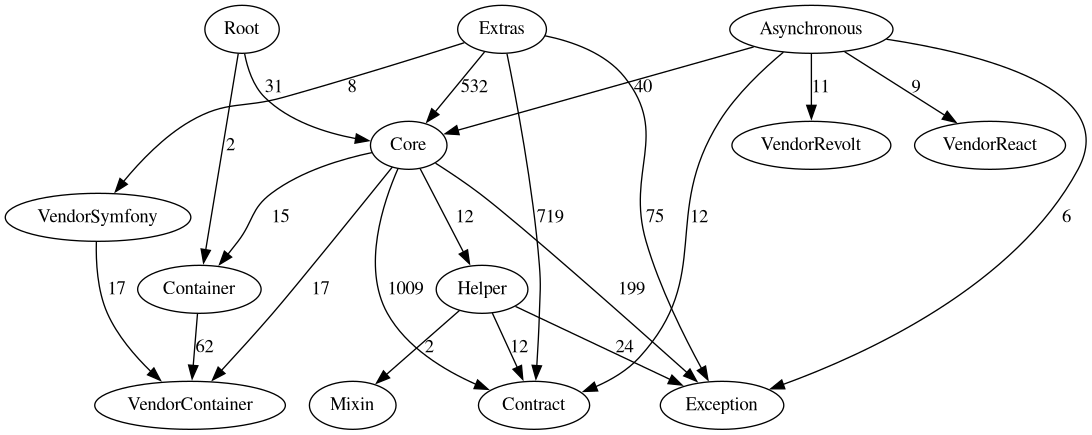
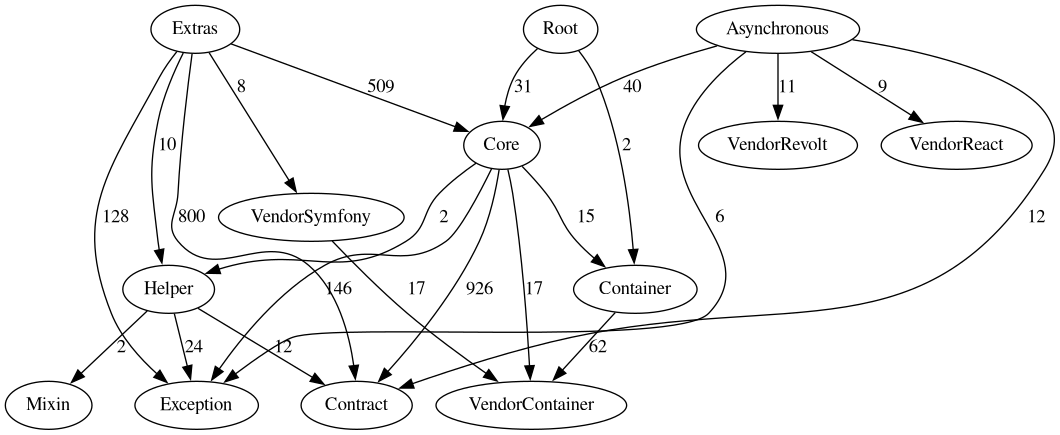
~

diff --git a/src/Spinner/Core/Factory/ContainerSingletonFactory.php b/src/Spinner/Core/Factory/ContainerSingletonFactory.php
@@ -9,7 +9,6 @@ use AlecRabbit\Spinner\Container\Container;
 use AlecRabbit\Spinner\Container\Contract\IContainer;
 use AlecRabbit\Spinner\Container\Contract\IServiceSpawner;
 use AlecRabbit\Spinner\Container\ServiceSpawner;
-use AlecRabbit\Spinner\Contract\Color\Style\IStyleOptionsParser;
 use AlecRabbit\Spinner\Contract\Option\OptionCursor;
 use AlecRabbit\Spinner\Contract\Option\OptionNormalizerMode;
 use AlecRabbit\Spinner\Contract\Option\OptionStyleMode;
@@ -48,7 +47,6 @@ use AlecRabbit\Spinner\Core\Contract\IWidthMeasurer;
 use AlecRabbit\Spinner\Core\Contract\Loop\Contract\ILoop;
 use AlecRabbit\Spinner\Core\Contract\Loop\Contract\ILoopProbe;
 use AlecRabbit\Spinner\Core\DriverSetup;
-use AlecRabbit\Spinner\Core\Factory\Contract\IAnsiColorParserFactory;
 use AlecRabbit\Spinner\Core\Factory\Contract\IBufferedOutputSingletonFactory;
 use AlecRabbit\Spinner\Core\Factory\Contract\ICharFrameFactory;
 use AlecRabbit\Spinner\Core\Factory\Contract\ICharFrameRevolverFactory;
@@ -58,7 +56,6 @@ use AlecRabbit\Spinner\Core\Factory\Contract\IDriverLinkerSingletonFactory;
 use AlecRabbit\Spinner\Core\Factory\Contract\IDriverOutputFactory;
 use AlecRabbit\Spinner\Core\Factory\Contract\IDriverSingletonFactory;
 use AlecRabbit\Spinner\Core\Factory\Contract\IFrameCollectionFactory;
-use AlecRabbit\Spinner\Core\Factory\Contract\IHexColorToAnsiCodeConverterFactory;
 use AlecRabbit\Spinner\Core\Factory\Contract\IIntervalFactory;
 use AlecRabbit\Spinner\Core\Factory\Contract\IIntervalNormalizerFactory;
 use AlecRabbit\Spinner\Core\Factory\Contract\ILoopProbeFactory;
@@ -67,7 +64,6 @@ use AlecRabbit\Spinner\Core\Factory\Contract\ILoopSetupFactory;
 use AlecRabbit\Spinner\Core\Factory\Contract\ILoopSingletonFactory;
 use AlecRabbit\Spinner\Core\Factory\Contract\ISignalProcessingProbeFactory;
 use AlecRabbit\Spinner\Core\Factory\Contract\ISpinnerFactory;
-use AlecRabbit\Spinner\Core\Factory\Contract\IStyleFactory;
 use AlecRabbit\Spinner\Core\Factory\Contract\IStyleFrameFactory;
 use AlecRabbit\Spinner\Core\Factory\Contract\IStyleFrameRendererFactory;
 use AlecRabbit\Spinner\Core\Factory\Contract\IStyleFrameRevolverFactory;
@@ -98,10 +94,6 @@ use AlecRabbit\Spinner\Core\Widget\Factory\WidgetRevolverFactory;
 use AlecRabbit\Spinner\Core\Widget\WidgetBuilder;
 use AlecRabbit\Spinner\Core\Widget\WidgetRevolverBuilder;
 use AlecRabbit\Spinner\Exception\DomainException;
-//use AlecRabbit\Spinner\Extras\Color\Style\StyleOptionsParser;
-//use AlecRabbit\Spinner\Extras\Factory\AnsiColorParserFactory;
-//use AlecRabbit\Spinner\Extras\Factory\SimpleHexColorToAnsiCodeConverterFactory;
-//use AlecRabbit\Spinner\Extras\Factory\StyleFactory;
 use ArrayObject;
 use Psr\Container\ContainerInterface;
 use Traversable;
@@ -140,7 +132,6 @@ final class ContainerSingletonFactory implements IContainerSingletonFactory
     {
         // TODO (2023-04-10 20:21) [Alec Rabbit]: consider extracting definitions?
         yield from [
-//            IAnsiColorParserFactory::class => AnsiColorParserFactory::class,
             IAuxSettingsBuilder::class => AuxSettingsBuilder::class,
             IBufferedOutputBuilder::class => BufferedOutputBuilder::class,
             IBufferedOutputSingletonFactory::class => BufferedOutputSingletonFactory::class,
@@ -160,7 +151,6 @@ final class ContainerSingletonFactory implements IContainerSingletonFactory
             IDriverSingletonFactory::class => DriverSingletonFactory::class,
             IFrameCollectionFactory::class => FrameCollectionFactory::class,
             IFrameRevolverBuilder::class => FrameRevolverBuilder::class,
-//            IHexColorToAnsiCodeConverterFactory::class => SimpleHexColorToAnsiCodeConverterFactory::class,
             IIntegerNormalizerBuilder::class => IntegerNormalizerBuilder::class,
             IIntervalFactory::class => IntervalFactory::class,
             IIntervalNormalizerFactory::class => IntervalNormalizerFactory::class,
@@ -169,11 +159,9 @@ final class ContainerSingletonFactory implements IContainerSingletonFactory
             ILoopSetupFactory::class => LoopSetupFactory::class,
             ILoopSingletonFactory::class => LoopSingletonFactory::class,
             ISpinnerFactory::class => SpinnerFactory::class,
-//            IStyleFactory::class => StyleFactory::class,
             IStyleFrameFactory::class => StyleFrameFactory::class,
             IStyleFrameCollectionRenderer::class => StyleFrameCollectionRenderer::class,
             IStyleFrameRendererFactory::class => StyleFrameRendererFactory::class,
-//            IStyleOptionsParser::class => StyleOptionsParser::class,
             IStyleRendererFactory::class => StyleRendererFactory::class,
             IStyleFrameRevolverFactory::class => StyleFrameRevolverFactory::class,
             IStyleToAnsiStringConverterFactory::class => StyleToAnsiStringConverterFactory::class,
